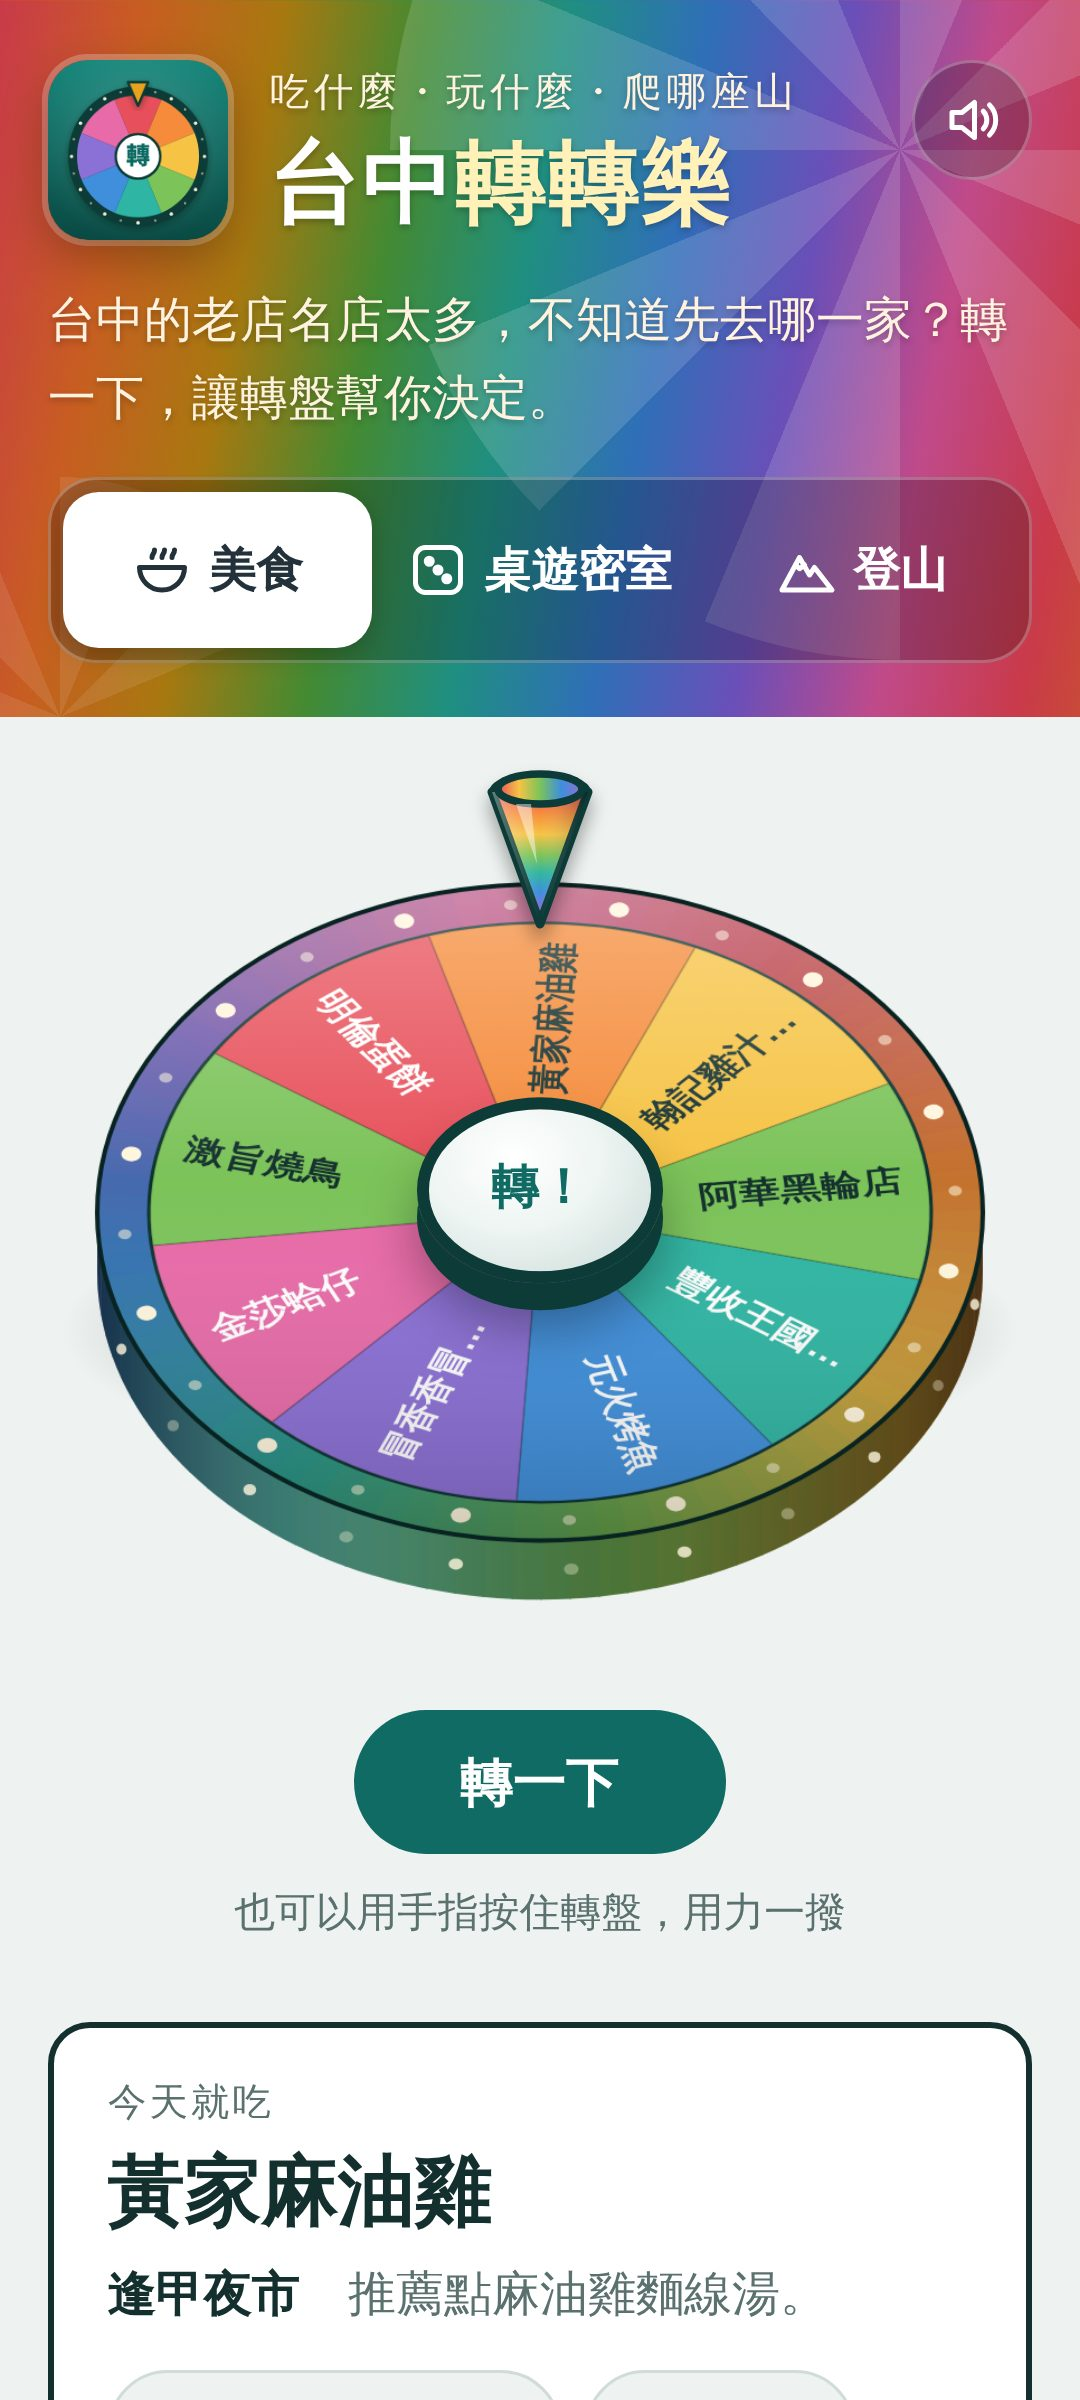
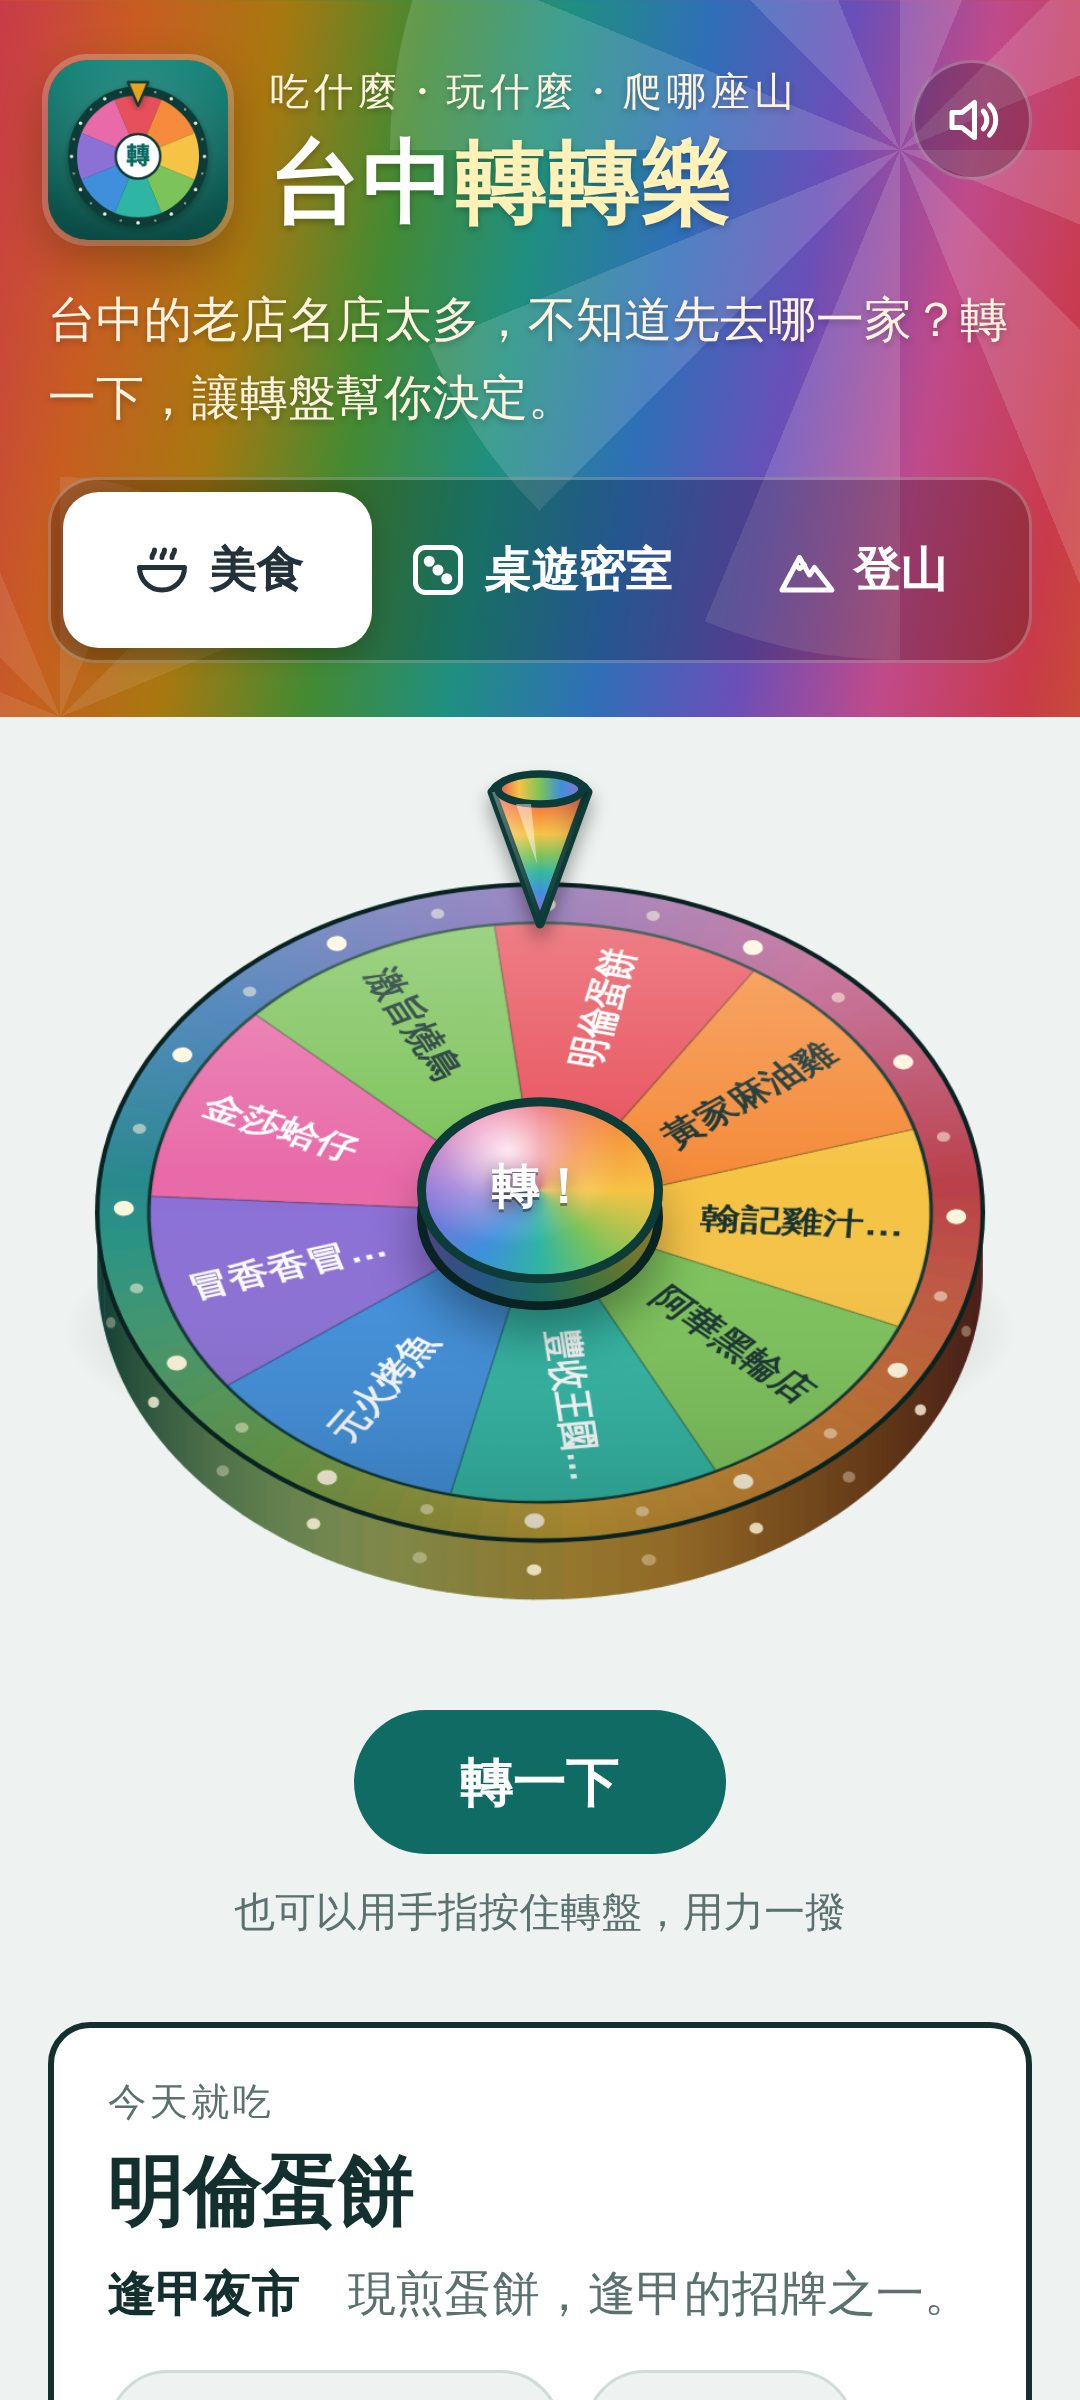
台中轉轉樂：中間的轉鈕改成五彩
Claude-Session: https://claude.ai/code/session_01RjTRgTtaL6n1Y88vUja3y2

Changed region(s): [[0.0917, 0.3438, 0.9167, 0.6875], [0.0917, 0.875, 0.7944, 0.9688]]

diff --git a/wheel/index.html b/wheel/index.html
@@ -189,15 +189,40 @@
   .hub {
     position: absolute; left: 50%; top: 48.5%; transform: translate(-50%, -62%);
     width: 25%; aspect-ratio: 1.33; border-radius: 50%;
-    background: radial-gradient(ellipse at 38% 30%, #ffffff 0%, #eef5f3 45%, #c9dad6 100%);
-    border: 4px solid var(--wheel-rim);
-    box-shadow: 0 9px 0 var(--wheel-rim), 0 14px 18px rgba(0, 0, 0, .35);
+    /* 五彩轉鈕：上面是彩虹面＋光澤，底下用 ::before 畫出較暗的彩虹側邊 */
+    --hub-rainbow: #e8505b, #f58b3a, #f6c344, #7cc35a, #2fb5a3, #3f8fdc, #8b6fd6, #e86aa8, #e8505b;
+    isolation: isolate;
+    background: transparent;
+    border: 0;
+    box-shadow: none;
     display: grid; place-items: center;
-    font: 900 clamp(1rem, 4vw, 1.4rem) var(--font-display); color: #0f6b63;
+    font: 900 clamp(1rem, 4vw, 1.4rem) var(--font-display); color: #ffffff;
+    text-shadow: 0 1px 0 rgba(0, 0, 0, .35), 0 2px 6px rgba(0, 0, 0, .45);
     cursor: pointer; padding: 0;
     transition: transform .08s, box-shadow .08s;
   }
-  .hub:active:not(:disabled) { transform: translate(-50%, calc(-62% + 6px)); box-shadow: 0 3px 0 var(--wheel-rim), 0 6px 10px rgba(0, 0, 0, .3); }
+  /* 側邊（往下的厚度）在最底層，彩虹面蓋在上面，字在最上面 */
+  .hub::before {
+    content: ""; position: absolute; z-index: -2;
+    left: 0; right: 0; top: 9px; bottom: -9px; border-radius: 50%;
+    background: conic-gradient(from 0deg, var(--hub-rainbow));
+    filter: brightness(.6);
+    border: 3px solid var(--wheel-rim);
+    box-shadow: 0 8px 16px rgba(0, 0, 0, .35);
+    transition: top .08s, bottom .08s;
+  }
+  .hub::after {
+    content: ""; position: absolute; z-index: -1; inset: 0; border-radius: 50%;
+    background:
+      radial-gradient(ellipse at 36% 26%, rgba(255, 255, 255, .85) 0%, rgba(255, 255, 255, .25) 32%, rgba(255, 255, 255, 0) 55%),
+      conic-gradient(from 0deg, var(--hub-rainbow));
+    border: 3px solid var(--wheel-rim);
+  }
+  .is-spinning .hub { animation: hub-hue 1.6s linear infinite; }
+  @keyframes hub-hue { to { filter: hue-rotate(360deg); } }
+  @media (prefers-reduced-motion: reduce) { .is-spinning .hub { animation: none; } }
+  .hub:active:not(:disabled) { transform: translate(-50%, calc(-62% + 6px)); }
+  .hub:active:not(:disabled)::before { top: 3px; bottom: -3px; }
   .hub:disabled { cursor: wait; }
 
   .spin-btn {

diff --git a/wheel/sw.js b/wheel/sw.js
@@ -1,6 +1,6 @@
 // 台中轉轉樂的 service worker：先存好 App 檔案，沒有網路也能開啟。
 // 修改任何檔案後，請把 CACHE 的版本號加一，手機才會更新到新版。
-const CACHE = "taichung-wheels-v11";
+const CACHE = "taichung-wheels-v12";
 const FILES = [
   "./",
   "./index.html",
